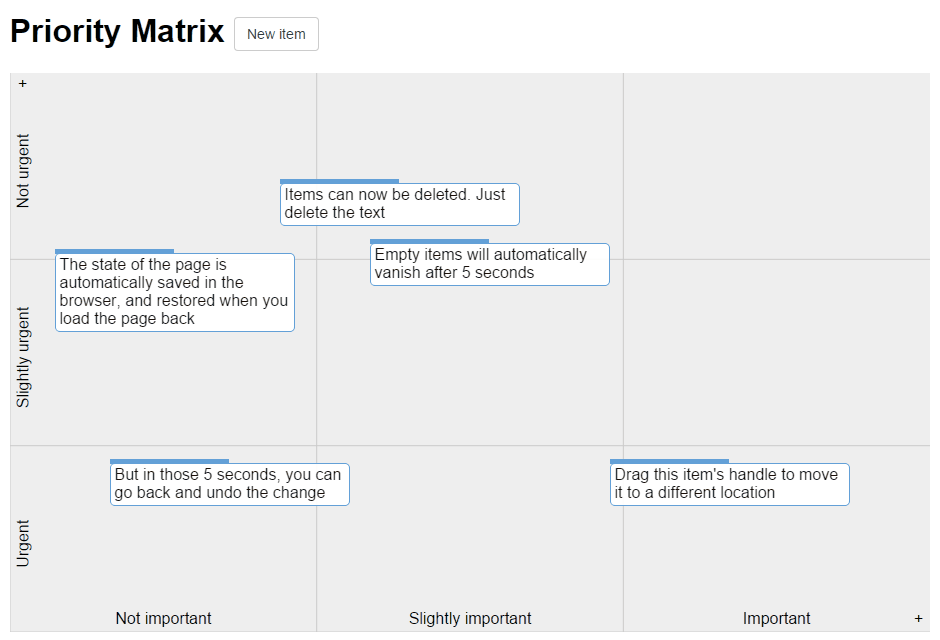
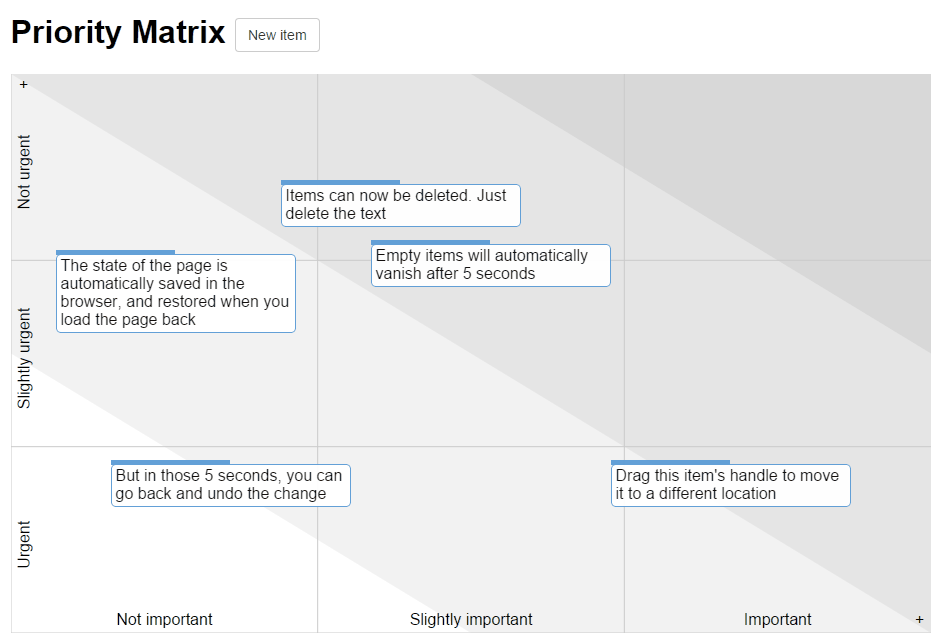
ENH: rather than a plain background, show slopes of importance

diff --git a/index.html b/index.html
@@ -95,9 +95,6 @@
   }
 
   /* Grid styling */
-  #gridbase rect {
-    fill: #eee;
-  }
   #grid path {
     stroke: #ccc;
     fill: none;
@@ -129,10 +126,11 @@
 
 <div id="container">
   <svg id="gridbase" width="920" height="559" ondragover="return false"><!-- 920 / 559 ~ Golden ratio -->
-    <rect width="100%" height="100%"/>
-    <g id="grid">
-      <path d="M0,0h100v100"/>
-    </g>
+    <path d="M0,559 v-279.5 l460,279.5 z" fill="rgba(0,0,0,0)"/>
+    <path d="M0,279.5 v-279.5 l920,559 h-460 z" fill="rgba(0,0,0,.05)"/>
+    <path d="M0,0 h460 l460,279.5 v279.5 z" fill="rgba(0,0,0,.10)"/>
+    <path d="M460,0 h460 v279.5 z" fill="rgba(0,0,0,.15)"/>
+    <g id="grid"></g>
     <text id="col:new" class="add-label legend" x="920" y="559" dx="-1em" dy="-8">+</text>
     <text id="row:new" class="add-label legend" x="0" y="0" dx="8" dy="1em">+</text>
   </svg>
